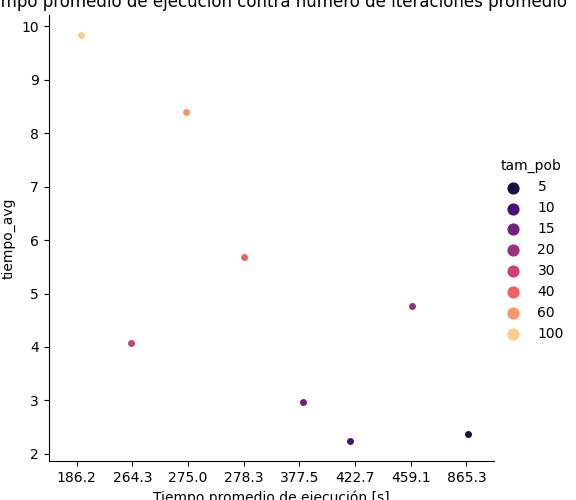
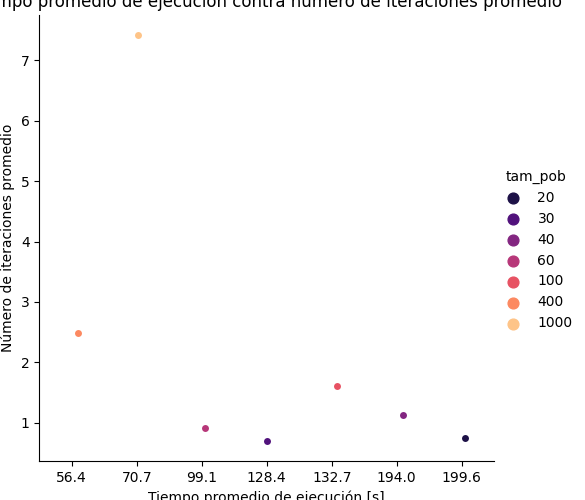
Fixed labels for certain time graphs.

diff --git a/Proyecto/data_analysis.py b/Proyecto/data_analysis.py
@@ -15,75 +15,75 @@ for queen in queens:
     temp_df = run_df.loc[run_df.num_reinas == queen].copy()
     temp_df.drop(columns=['num_reinas'], inplace=True)
     g = sns.catplot(x='iter_avg', y='tiempo_avg', hue='tam_pob', data=temp_df, palette=palette)
-    plt.xlabel('Número de iteraciones promedio')
+    plt.ylabel('Número de iteraciones promedio')
     plt.xlabel('Tiempo promedio de ejecución [s]')
     plt.title('Tiempo promedio de ejecución contra número de iteraciones promedio')
     plt.savefig('graphs/iter_tiempo_' +
                 str(queen) + '.png')
     plt.show()
 
-"""Graficando para cada reina tamaño de población sobre tiempo promedio de ejecución"""
-palette = sns.color_palette('flare', len(pop_sizes))
-df = run_df.drop(columns=['iter_avg'])
-for queen in queens:
-    temp_df = df.loc[df.num_reinas == queen]
-    g = sns.catplot(x='tiempo_avg', y='tam_pob', col='num_reinas', data=temp_df, palette=palette)
-    plt.ylabel('Tamaño de población')
-    plt.xlabel('Tiempo promedio de ejecución [s]')
-    plt.title('Tiempo promedio de ejecución contra población para ' + str(queen) + ' reinas')
-    plt.savefig('graphs/tiempo_tam_' +
-                str(queen) + '.png')
-    plt.show()
-
-"""Graficando para cada reina tamaño de población sobre iteraciones promedio de ejecución"""
-df = run_df.drop(columns=['tiempo_avg'])
-for queen in queens:
-    temp_df = df.loc[df.num_reinas == queen]
-    g = sns.catplot(x='iter_avg', y='tam_pob', col='num_reinas', data=temp_df, palette=palette)
-    plt.ylabel('Tamaño de población')
-    plt.xlabel('Iteraciones promedio')
-    plt.title('Iteraciones promedio contra población para ' + str(queen) + ' reinas')
-    plt.savefig('graphs/iter_tam_' +
-                str(queen) + '.png')
-    plt.show()
-
-
-
-palette = sns.color_palette('mako', len(queens))
-temp_df = run_df.drop(columns=['iter_avg'])
-g = sns.lineplot(x='tam_pob', y='tiempo_avg', data=temp_df, hue='num_reinas', style='num_reinas', markers=True,
-                 dashes=False, palette=palette)
-plt.xlabel('Tamaño de población')
-plt.ylabel('Tiempo promedio de ejecución [s]')
-plt.title('Tiempo promedio de ejecución contra población')
-plt.savefig('graphs/tam_tiempo.png')
-plt.show()
-
-temp_df['tiempo_avg'] = np.log(temp_df['tiempo_avg'])
-temp_df['tam_pob'] = np.log(temp_df['tam_pob'])
-g = sns.lineplot(x='tam_pob', y='tiempo_avg', data=temp_df, hue='num_reinas', style='num_reinas', markers=True,
-                 dashes=False, palette=palette)
-plt.xlabel('Tamaño de población')
-plt.ylabel('Tiempo promedio de ejecución [s]')
-plt.title('Tiempo promedio de ejecución contra población — log')
-plt.savefig('graphs/tam_tiempo_log.png')
-plt.show()
-
-temp_df = run_df.drop(columns=['tiempo_avg'])
-h = sns.lineplot(x='tam_pob', y='iter_avg', data=temp_df, hue='num_reinas', style='num_reinas', markers=True,
-                 dashes=False, palette=palette)
-plt.xlabel('Tamaño de población')
-plt.ylabel('Número de iteraciones promedio')
-plt.title('Número de iteraciones promedio contra población')
-plt.savefig('graphs/tam_iter.png')
-plt.show()
-
-temp_df['iter_avg'] = np.log(temp_df['iter_avg'])
-temp_df['tam_pob'] = np.log(temp_df['tam_pob'])
-h = sns.lineplot(x='tam_pob', y='iter_avg', data=temp_df, hue='num_reinas', style='num_reinas', markers=True,
-                 dashes=False, palette=palette)
-plt.xlabel('Tamaño de población')
-plt.ylabel('Número de iteraciones promedio')
-plt.title('Número de iteraciones promedio contra población — log')
-plt.savefig('graphs/tam_iter_log.png')
-plt.show()
+# """Graficando para cada reina tamaño de población sobre tiempo promedio de ejecución"""
+# palette = sns.color_palette('flare', len(pop_sizes))
+# df = run_df.drop(columns=['iter_avg'])
+# for queen in queens:
+#     temp_df = df.loc[df.num_reinas == queen]
+#     g = sns.catplot(x='tiempo_avg', y='tam_pob', col='num_reinas', data=temp_df, palette=palette)
+#     plt.ylabel('Tamaño de población')
+#     plt.xlabel('Tiempo promedio de ejecución [s]')
+#     plt.title('Tiempo promedio de ejecución contra población para ' + str(queen) + ' reinas')
+#     plt.savefig('graphs/tiempo_tam_' +
+#                 str(queen) + '.png')
+#     plt.show()
+#
+# """Graficando para cada reina tamaño de población sobre iteraciones promedio de ejecución"""
+# df = run_df.drop(columns=['tiempo_avg'])
+# for queen in queens:
+#     temp_df = df.loc[df.num_reinas == queen]
+#     g = sns.catplot(x='iter_avg', y='tam_pob', col='num_reinas', data=temp_df, palette=palette)
+#     plt.ylabel('Tamaño de población')
+#     plt.xlabel('Iteraciones promedio')
+#     plt.title('Iteraciones promedio contra población para ' + str(queen) + ' reinas')
+#     plt.savefig('graphs/iter_tam_' +
+#                 str(queen) + '.png')
+#     plt.show()
+#
+#
+#
+# palette = sns.color_palette('mako', len(queens))
+# temp_df = run_df.drop(columns=['iter_avg'])
+# g = sns.lineplot(x='tam_pob', y='tiempo_avg', data=temp_df, hue='num_reinas', style='num_reinas', markers=True,
+#                  dashes=False, palette=palette)
+# plt.xlabel('Tamaño de población')
+# plt.ylabel('Tiempo promedio de ejecución [s]')
+# plt.title('Tiempo promedio de ejecución contra población')
+# plt.savefig('graphs/tam_tiempo.png')
+# plt.show()
+#
+# temp_df['tiempo_avg'] = np.log(temp_df['tiempo_avg'])
+# temp_df['tam_pob'] = np.log(temp_df['tam_pob'])
+# g = sns.lineplot(x='tam_pob', y='tiempo_avg', data=temp_df, hue='num_reinas', style='num_reinas', markers=True,
+#                  dashes=False, palette=palette)
+# plt.xlabel('Tamaño de población')
+# plt.ylabel('Tiempo promedio de ejecución [s]')
+# plt.title('Tiempo promedio de ejecución contra población — log')
+# plt.savefig('graphs/tam_tiempo_log.png')
+# plt.show()
+#
+# temp_df = run_df.drop(columns=['tiempo_avg'])
+# h = sns.lineplot(x='tam_pob', y='iter_avg', data=temp_df, hue='num_reinas', style='num_reinas', markers=True,
+#                  dashes=False, palette=palette)
+# plt.xlabel('Tamaño de población')
+# plt.ylabel('Número de iteraciones promedio')
+# plt.title('Número de iteraciones promedio contra población')
+# plt.savefig('graphs/tam_iter.png')
+# plt.show()
+#
+# temp_df['iter_avg'] = np.log(temp_df['iter_avg'])
+# temp_df['tam_pob'] = np.log(temp_df['tam_pob'])
+# h = sns.lineplot(x='tam_pob', y='iter_avg', data=temp_df, hue='num_reinas', style='num_reinas', markers=True,
+#                  dashes=False, palette=palette)
+# plt.xlabel('Tamaño de población')
+# plt.ylabel('Número de iteraciones promedio')
+# plt.title('Número de iteraciones promedio contra población — log')
+# plt.savefig('graphs/tam_iter_log.png')
+# plt.show()
